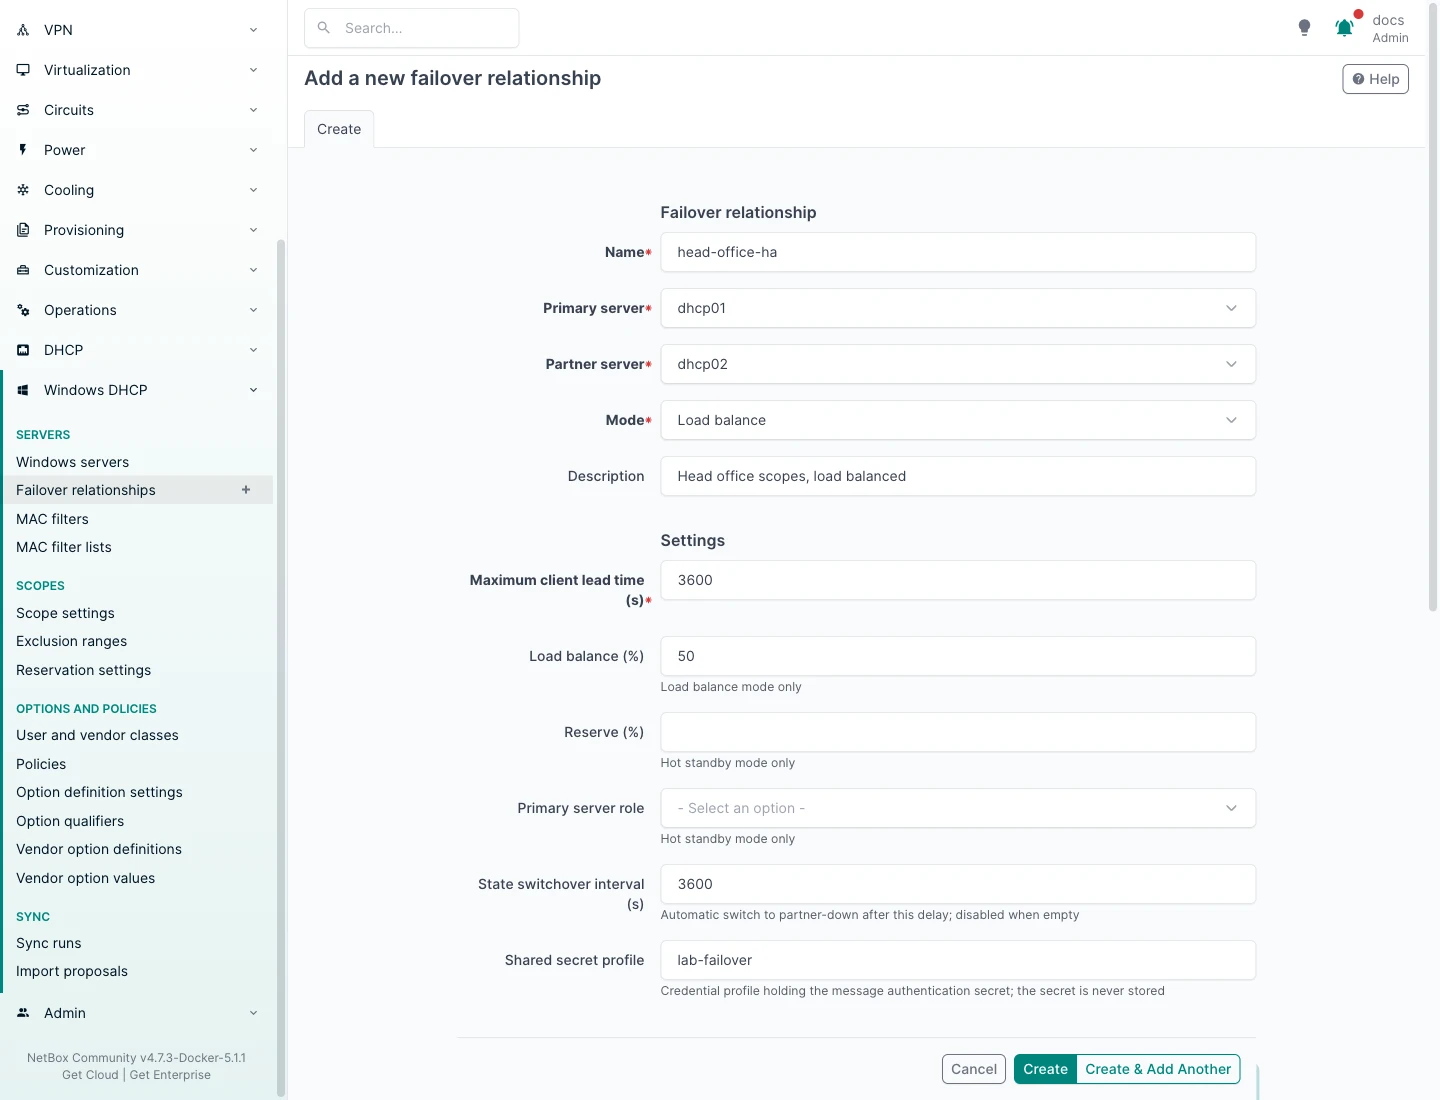
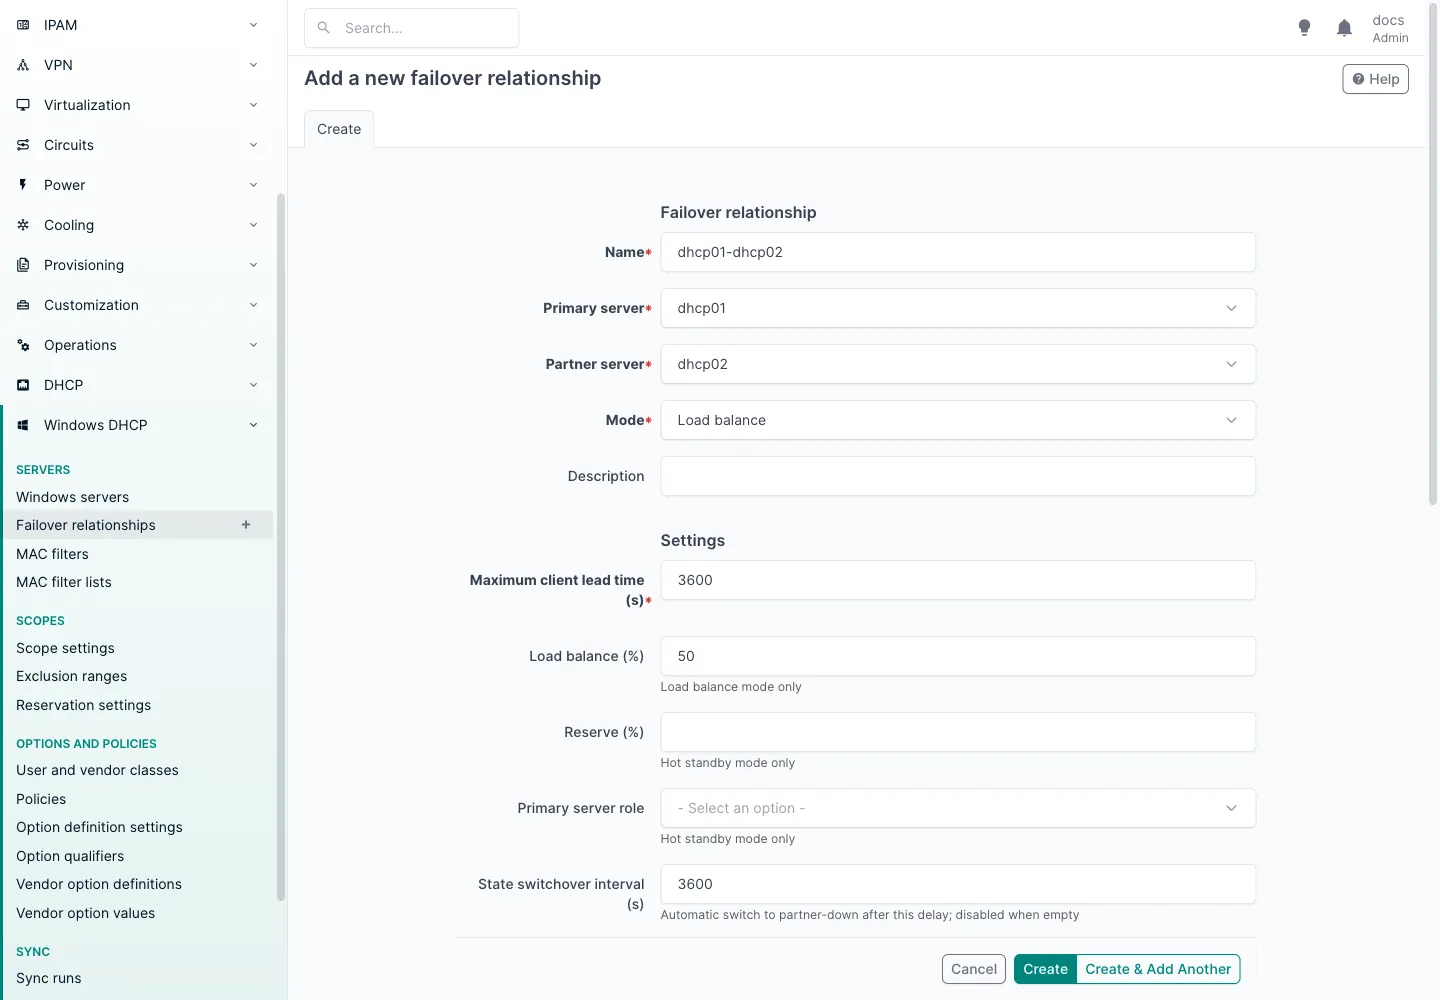
docs: reservations page and a step-by-step failover walkthrough (#67)
A new Reservations page walks through creating a reservation in NetBox,
setting its type, giving it an option, changing and deleting it, with the
sync run of each push and what the Windows DHCP console and PowerShell show
afterwards. The failover page gains a walkthrough: prerequisites, the
relationship form, the push, the Failover tabs and Get-DhcpServerv4Failover
on both partners, and a reservation replicated to the partner.

Screenshots were taken on a fresh lab with two Windows Server 2025 DHCP
servers (renamed DHCP01/DHCP02, reached as dhcp01/dhcp02.example.com), the
Windows ones from the console session of each server. The three existing
failover images are replaced by the new ones. Limitations notes what was
checked on Server 2025.

diff --git a/docs/reservations.md b/docs/reservations.md
@@ -1,0 +1,139 @@
+# Reservations
+
+A DHCP reservation gives one client, known by its MAC address, the same IPv4 address every time. In NetBox it is a
+netbox-plugin-dhcp **Host reservation** in the subnet of a Windows scope; the plugin pushes it to the Windows
+server and keeps the two in step. This page walks through creating one, changing it, giving it options and deleting
+it, with what Windows shows after each push.
+
+The screenshots come from a lab: NetBox without branching, two Windows Server 2025 DHCP servers known to NetBox as
+`dhcp01.example.com` and `dhcp02.example.com`, with **Sync enabled** on both, so every save queues a push. With
+netbox-branching, make the same changes in a branch: the push runs when the branch is merged (see
+[Push to Windows](push.md#when-a-push-runs)). Without sync enabled, click **Dry run** and then **Sync now** on the
+Windows server after each change.
+
+## Before you start
+
+- The scope exists in NetBox and on Windows: a sys4 subnet with a pool, on the DHCP server of a Windows server (see
+  [Example: a new scope from NetBox](push.md#example-a-new-scope-from-netbox), or import an existing scope). Here
+  the scope is `198.18.60.0/24`, named `VLAN60-Office` on Windows.
+- The reservation's IP address exists in **IPAM > IP Addresses** (here `198.18.60.20/24`) and its MAC address in
+  **Devices > MAC Addresses** (here `02:4E:42:60:00:20`). The reservation form selects existing objects; its **+**
+  button next to the hardware address creates a MAC address on the spot.
+
+## Create a reservation
+
+**DHCP > Host Reservations > Add** (or **Add Object > Host Reservation** on the subnet):
+
+| Field | Value | On Windows |
+|---|---|---|
+| Name | Unique among all reservations in NetBox. Imports use `<server>/<scope>/<ip>`, so `dhcp01/198.18.60.0/198.18.60.20` keeps them consistent | not sent |
+| Description | `printer01` | the reservation **name** |
+| Subnet (tab) | the scope's subnet | the scope |
+| Hardware Address | the MAC address | the client ID |
+| IPv4 Address | the reserved address, inside the subnet | the IP address |
+
+Comments become the Windows **description** (set them through the REST API for now, see
+[How objects map](mapping.md#names)). The other fields (DUID, circuit ID, flex ID, client classes, BOOTP) have no
+Windows counterpart on an IPv4 reservation.
+
+![A new host reservation: name dhcp01/198.18.60.0/198.18.60.20, description printer01, subnet dhcp01/198.18.60.0,
+hardware address 02:4E:42:60:00:20, IPv4 address 198.18.60.20/24](images/reservation-form.webp)
+
+Saving queues a push to the Windows server. Its sync run (**Windows DHCP > Sync runs**, or the **Sync runs** table
+on the Windows server) lists what it planned and applied: one reservation created, with type `both` since no
+reservation settings say otherwise.
+
+![The sync run of the push: completed, one reservation created, printer01 at 198.18.60.20 with client ID
+02-4e-42-60-00-20](images/reservation-push.webp)
+
+The note about a DHCPv6 vendor class is about the vendor class Windows ships with; the plugin syncs DHCPv6 user
+classes only and leaves it alone.
+
+On the Windows server, the DHCP console shows the reservation under the scope:
+
+![The Windows DHCP console on dhcp01: Scope 198.18.60.0 VLAN60-Office, Reservations, with 198.18.60.20
+printer01](images/reservation-windows-console.webp)
+
+## Reservation type (DHCP, BOOTP or both)
+
+Windows reservations answer DHCP clients, BOOTP clients or both. sys4 has no field for that, so the plugin keeps it
+in **Windows DHCP > Reservation settings**. Without settings, a reservation is pushed as **Both**, the Windows
+default. To change it, **Add** reservation settings for the host reservation and pick the type (the IAID field is
+for DHCPv6 reservations only):
+
+![A new Windows reservation: host reservation dhcp01/198.18.60.0/198.18.60.20, type DHCP](images/reservation-windows-settings.webp)
+
+## Reservation options
+
+Option values on a reservation override the scope and server values for that one client. On the host reservation,
+**Add Object > Option**, pick the option definition and enter the value. Here option 15 (DNS domain name):
+
+![A new option on the reservation: dhcp4 domain-name (15), data print.example.com](images/reservation-option-form.webp)
+
+Here the two saves above went out in one push, as saves made close together do: the reservation updated from `both`
+to `dhcp`, and the option value created on it.
+
+![The sync run: two changes applied, the reservation type from both to dhcp and option 15 created on
+198.18.60.20](images/reservation-update-push.webp)
+
+Windows shows the reservation with its type DHCP:
+
+![The reservation properties on Windows: name printer01, IP 198.18.60.20, MAC 024e42600020, supported types
+DHCP](images/reservation-windows-properties.webp)
+
+The same check in PowerShell:
+
+```text
+PS> Get-DhcpServerv4Reservation -ScopeId 198.18.60.0 | Format-List
+
+IPAddress   : 198.18.60.20
+ClientId    : 02-4e-42-60-00-20
+ScopeId     : 198.18.60.0
+Name        : printer01
+Type        : Dhcp
+Description :
+```
+
+Windows also shows the reservation's options. The console also lists the values the reservation inherits from the scope (003 Router here); only
+015 belongs to the reservation:
+
+![The reservation's options in the Windows DHCP console: 015 DNS Domain Name print.example.com and the inherited
+003 Router 198.18.60.1](images/reservation-windows-options.webp)
+
+```text
+PS> Get-DhcpServerv4OptionValue -ReservedIP 198.18.60.20
+
+OptionId   Name            Type       Value                VendorClass     UserClass       PolicyName
+--------   ----            ----       -----                -----------     ---------       ----------
+15         DNS Domain Name String     {print.example.com}
+```
+
+## Change a reservation
+
+Edit the host reservation (or its MAC address, reservation settings or options) in NetBox; the next push updates
+Windows. A changed description renames the reservation on Windows. An update keeps the reservation's option
+values: the push sends the client ID and type only when they change, and puts back any option value Windows drops
+(see [Push to Windows](push.md#order)).
+
+## Delete a reservation
+
+Delete the host reservation in NetBox. The next push removes it from Windows, as long as NetBox manages it (the
+plugin created it, adopted it or imported it). A reservation made by hand on Windows is never deleted by a push: it
+counts as **unmanaged** and comes into NetBox with the next import.
+
+In this example a second reservation, `camera01` at `198.18.60.21`, was created from NetBox and pushed, and a third,
+`handmade01` at `198.18.60.30`, was added on Windows with `Add-DhcpServerv4Reservation`. Deleting `camera01` in
+NetBox gave this push:
+
+![The sync run of the delete: one reservation deleted, camera01 at 198.18.60.21; 16 unmanaged objects
+left alone](images/reservation-delete-push.webp)
+
+`camera01` is gone from Windows; `handmade01` stays:
+
+![The Windows DHCP console after the push: the reservations printer01 and handmade01](images/reservation-windows-after-delete.webp)
+
+## Reservations in a failover scope
+
+When the scope belongs to a failover relationship, edit its reservations on the relationship's primary server in
+NetBox. The push writes them to the primary and then replicates the scope to the partner; see
+[A working failover, step by step](failover.md#a-working-failover-step-by-step).

diff --git a/docs/failover.md b/docs/failover.md
@@ -51,8 +51,129 @@ both. CredSSP hands the password to the DHCP server, so it needs **WinRM over HT
 **SSH with a password** works too: Windows OpenSSH logs a password user on with credentials it can pass on, so the
 failover tests passed over SSH as over CredSSP (lab, Windows Server 2022). SSH key authentication was not tried.
 
-![A new failover relationship: name, primary dhcp01, partner dhcp02, load balance 50 %, a shared secret profile, and
-the subnet it covers](images/failover-form.webp)
+## A working failover, step by step
+
+This walkthrough pairs two servers in load balance mode and shows the result on both. It was run on a lab: NetBox
+without branching, two Windows Server 2025 DHCP servers in a workgroup (computer names `DHCP01` and `DHCP02`),
+known to NetBox as `dhcp01.example.com` and `dhcp02.example.com`, WinRM with CredSSP, sync enabled on both. The
+reservation page follows the same lab: [Reservations](reservations.md).
+
+### 1. Prepare
+
+- Both servers have a Windows server in NetBox with **WinRM authentication: CredSSP** (or SSH with a password), and
+  **Test connection** completes on both. The test also records each server's reported names, which the plugin
+  uses to recognise the partner later.
+- The primary DHCP server resolves the partner's host as NetBox holds it. Here both servers' hosts files map
+  `dhcp01.example.com` and `dhcp02.example.com`; in a domain, DNS does it.
+- The scopes to share exist on the primary and are pushed: here `198.18.60.0/24` with the reservation `printer01`.
+  The partner does not need them; Windows copies them there when the relationship is created.
+- For message authentication, a credential profile holds the shared secret and its `allowed_hosts` cover both
+  partners (here `lab-failover`, see [Shared secret](#shared-secret)).
+
+### 2. Create the relationship in NetBox
+
+**Windows DHCP > Failover relationships > Add**: a name, the primary server (the one NetBox writes to), the partner,
+the mode and its settings.
+
+![A new failover relationship: name dhcp01-dhcp02, primary dhcp01, partner dhcp02, load balance, MCLT 3600,
+load balance 50 %, state switchover interval 3600](images/failover-form.webp)
+
+Further down, the shared secret profile and the subnets the relationship covers:
+
+![The rest of the form: shared secret profile lab-failover and the subnet dhcp01/198.18.60.0](images/failover-form-scopes.webp)
+
+### 3. The push
+
+Saving queues a push to the primary, which creates the relationship on Windows with its scope. Windows sets it up
+on the partner itself:
+
+![The push to dhcp01: one failover relationship created, partner dhcp02.example.com, load balance 50 %, scope
+198.18.60.0, authentication on](images/failover-push.webp)
+
+A push also runs for the partner, since the relationship touches it. It changes nothing there and says why:
+`skipped 1 failover relationship(s) whose primary is another server: they are synced from that server`.
+
+![The failover relationship in NetBox: primary dhcp01, partner dhcp02, load balance, settings, shared secret profile
+and subnet](images/failover-relationship.webp)
+
+### 4. Check on Windows
+
+On the primary, the scope's **Properties > Failover** tab names the relationship and the partner, and both servers
+are in state Normal:
+
+![Scope 198.18.60.0 properties on DHCP01, Failover tab: relationship dhcp01-dhcp02, partner dhcp02.example.com, load
+balance, states Normal and Normal, 50 % each](images/failover-windows-dhcp01-scope.webp)
+
+On the partner, the same scope now exists, with the same tab. The partner names the primary by its computer name,
+`DHCP01`, which is why the plugin matches partners on reported names (see the tip at the end of this page):
+
+![Scope 198.18.60.0 properties on DHCP02, Failover tab: relationship dhcp01-dhcp02, partner DHCP01, states Normal
+and Normal](images/failover-windows-dhcp02-scope.webp)
+
+![IPv4 properties on DHCP02, Failover tab: the relationship dhcp01-dhcp02, state Normal, partner DHCP01, load
+balance](images/failover-windows-dhcp02-ipv4.webp)
+
+The same in PowerShell, on each server:
+
+```text
+PS> Get-DhcpServerv4Failover | Format-List        # on DHCP01
+
+Name                : dhcp01-dhcp02
+PartnerServer       : dhcp02.example.com
+Mode                : LoadBalance
+LoadBalancePercent  : 50
+ServerRole          :
+ReservePercent      :
+MaxClientLeadTime   : 01:00:00
+StateSwitchInterval : 01:00:00
+State               : Normal
+ScopeId             : 198.18.60.0
+AutoStateTransition : True
+EnableAuth          : True
+```
+
+```text
+PS> Get-DhcpServerv4Failover | Format-List        # on DHCP02
+
+Name                : dhcp01-dhcp02
+PartnerServer       : DHCP01
+Mode                : LoadBalance
+LoadBalancePercent  : 50
+ServerRole          :
+ReservePercent      :
+MaxClientLeadTime   : 01:00:00
+StateSwitchInterval : 01:00:00
+State               : Normal
+ScopeId             : 198.18.60.0
+AutoStateTransition : True
+EnableAuth          : True
+```
+
+### 5. Changes replicate
+
+From now on, edit the scope on the primary in NetBox. A new reservation, `scanner01` at `198.18.60.22`, saved on the
+subnet `dhcp01/198.18.60.0`, was pushed to DHCP01 and the scope replicated to DHCP02 in the same job:
+
+![The push job log: Replicated 1 scope(s) to the partner of dhcp01-dhcp02; Push to dhcp01.example.com: changed 1
+object(s)](images/failover-replication-log.webp)
+
+DHCP02 has both reservations without NetBox writing to it:
+
+![The Windows DHCP console on DHCP02: Scope 198.18.60.0 VLAN60-Office, reservations printer01 and
+scanner01](images/failover-windows-dhcp02-reservations.webp)
+
+```text
+PS> Get-DhcpServerv4Reservation -ScopeId 198.18.60.0 | Select-Object IPAddress,ClientId,Name,Type   # on DHCP02
+
+IPAddress    ClientId          Name      Type
+---------    --------          ----      ----
+198.18.60.20 02-4e-42-60-00-20 printer01 Dhcp
+198.18.60.22 02-4e-42-60-00-22 scanner01 Both
+```
+
+Replication copies the whole scope, reservation option values included (`printer01` keeps option 15 on DHCP02).
+If a replication fails, the push is marked failed and the next push to the primary tries again (see
+[How it syncs](#how-it-syncs)).
 
 ## How it syncs
 
@@ -75,12 +196,6 @@ the subnet it covers](images/failover-form.webp)
   server.
 
 So edit failover scopes as scopes of the primary server in NetBox; the partner's copies follow through replication.
-
-Saving the relationship queues a push to the primary, which creates it on both servers:
-
-![The push to the primary: the failover relationship created](images/failover-push.webp)
-
-![The failover relationship in NetBox: primary, partner, mode, settings and subnets](images/failover-relationship.webp)
 
 ## Shared secret
 

diff --git a/docs/limitations.md b/docs/limitations.md
@@ -7,7 +7,10 @@ stub cmdlets. The lab tests (see [Development](development.md#lab-tests)) have a
 Server 2022 DHCP servers in a workgroup: every cmdlet the plugin uses, a full import, push of creates, updates and
 deletes, the Leases tab, and a failover relationship created, replicated and removed through a push (see
 [Failover](failover.md#connecting-to-the-servers)). Testers of the release candidates ran Windows Server 2025. What
-they found is fixed.
+they found is fixed. The walkthroughs in [Reservations](reservations.md) and
+[Failover](failover.md#a-working-failover-step-by-step) were run on two Windows Server 2025 servers (2026-10-27):
+reservations created, changed, given an option and deleted, and a load balance relationship created and replicated
+through pushes over WinRM with CredSSP. The lab test suite itself has not been run on Windows Server 2025.
 
 Connections checked on a real server: WinRM over HTTP with NTLM and CredSSP, WinRM over HTTPS with certificate
 verification and NTLM, CredSSP or Basic, and SSH with a password (failover included over CredSSP and SSH).

diff --git a/CHANGELOG.md b/CHANGELOG.md
@@ -5,6 +5,12 @@ All notable changes to this project are documented here. The format follows
 
 ## [Unreleased]
 
+### Added
+
+- Documentation: a Reservations page (create, type, options, change, delete) and a step-by-step failover
+  walkthrough, each with screenshots of NetBox and of the Windows DHCP console and PowerShell output, taken on two
+  Windows Server 2025 servers.
+
 ## [0.1.0] - 2026-10-27
 
 Release candidates 0.1.0rc1 to 0.1.0rc5 (2026-10-21 to 2026-10-23) went to PyPI for testing; what testing them found
